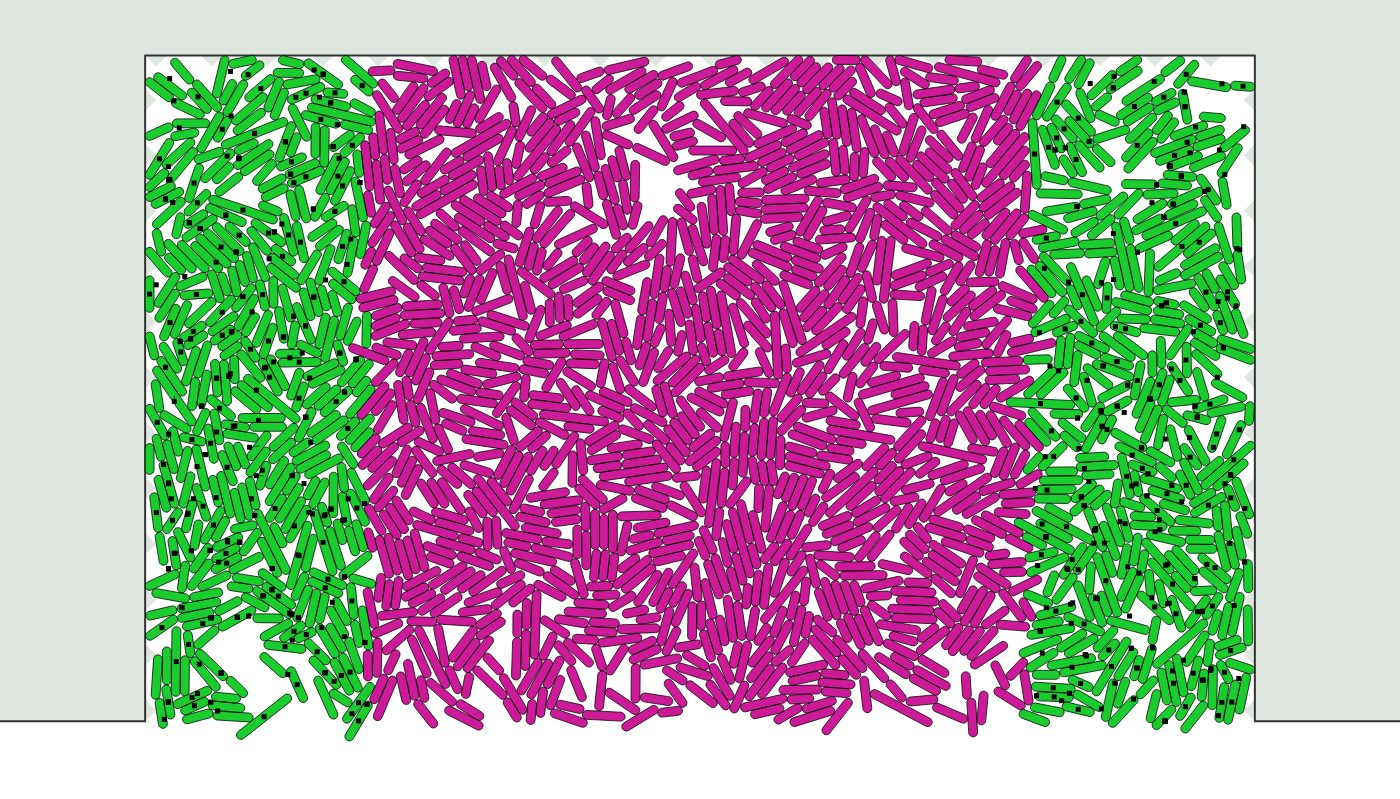
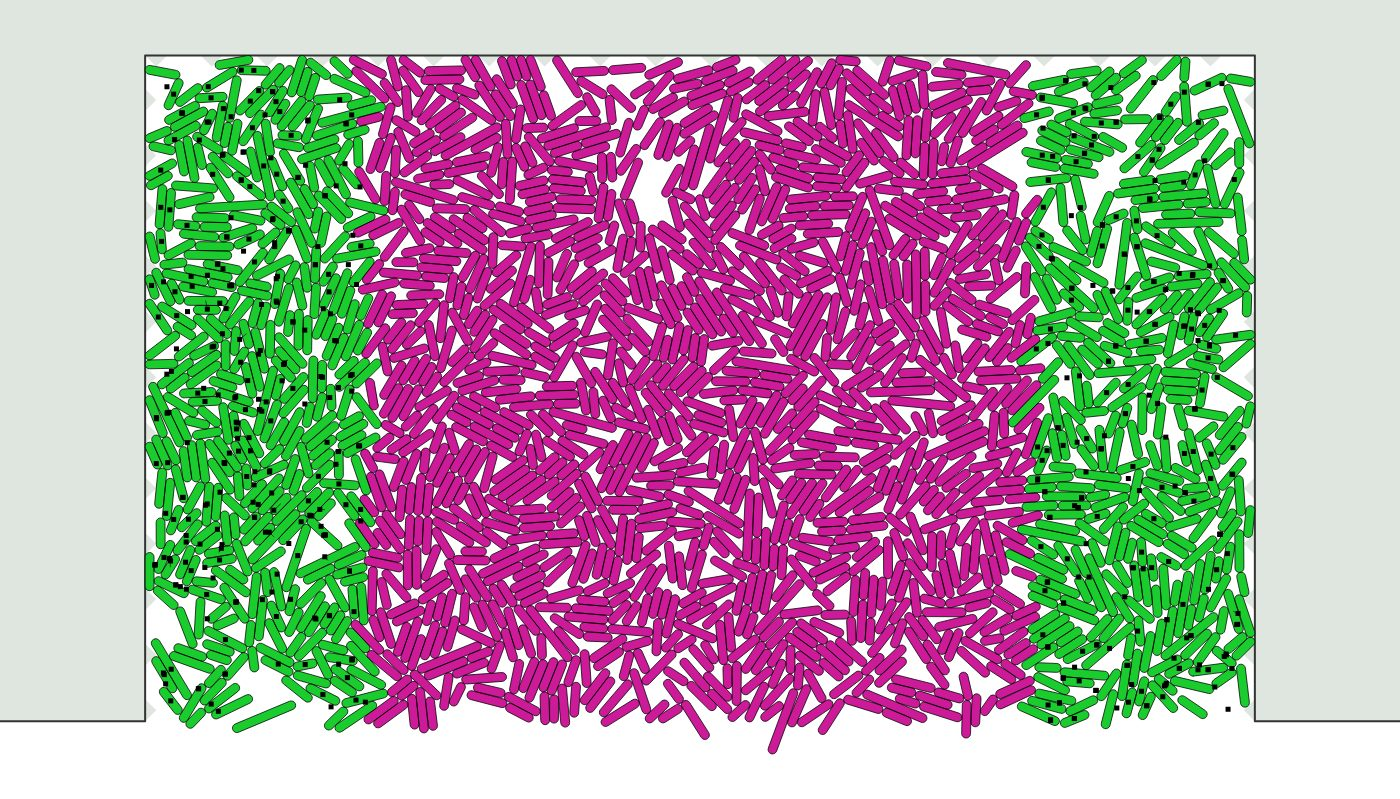
Overlap report: browser session and screenshots with the final defaults

diff --git a/bacteria/reports/overlap-report.md b/bacteria/reports/overlap-report.md
@@ -168,24 +168,26 @@ anchors that never let go the median was 12–15%.
 ## Browser screenshots
 
 A 60 000-step session in headless Chrome with the final defaults (`index.html?seed=7`, 200 steps
-per frame; the page confirmed `anchorMaxStretch=2`), paused every ~6000 steps for screenshots:
-the whole chamber in the phase-contrast and diagnostic views, and diagnostic close-ups (~18 × 11
-units) around the deepest pair at the last snapshot and of the top-left corner. In the diagnostic
-view each cell has its true capsule outline, and anchors are black squares with a line to their
-cell. Pairs deeper than 1% of the width are drawn orange, deeper than the target red. At the
-close-up zoom one pixel is ~0.013 units, so a 5% overlap (0.04) would show as ~3 pixels of
-outline crossing a neighbour.
+per frame; the page confirmed `anchorMaxStretch=2`, `growthGroups=5`, `continuousDrag=1`, 8
+iterations), paused every ~6000 steps for screenshots. Each pause took the whole chamber in the
+phase-contrast and diagnostic views, plus diagnostic close-ups (~18 × 11 units) around the
+deepest pair at the last snapshot and of the top-left corner. In the diagnostic view each cell has
+its true capsule outline, and anchors are black squares with a line to their cell. Pairs deeper
+than 1% of the width are drawn orange, deeper than the target (8%) red. At the close-up zoom one
+pixel is ~0.013 units, so a 5% overlap (0.04) would show as ~3 pixels of outline crossing a
+neighbour.
 
 Readouts at each pause (overlap at the last snapshot; `screenshots/browser-session.log`): max
-0.81–1.74% at every pause from step 6400 to 60 400; mean 0.16–0.21%; deepest wall contact
-0.4–16%. There were no red pairs and no page errors, and the images show no visible overlap. The
-anchor lines are now all short (≤ 2 units). The session also downloaded the states through the
-page's own `download()`: 17.7 MB, 206 snapshots, 10 942 cell ids, valid `LowRes.json`.
+0.41–1.38% at every pause from step 6400 to 60 200; mean 0.06–0.09%; deepest wall contact
+0.3–5%. There were no red pairs and no page errors, and the images show no visible overlap. The
+session also downloaded the states through the page's own `download()`: 17.6 MB, 205 snapshots,
+10 834 cell ids, valid `LowRes.json`. In the page, physics took 10.5 ms per step at ~1710 cells,
+measured with other runs sharing the CPU.
 
 | | |
 |---|---|
 | ![phase, step 12 200](screenshots/step-012200-phase.jpg) | ![diagnostic, step 12 200](screenshots/step-012200-diagnostic.jpg) |
-| ![phase, step 60 400](screenshots/step-060400-phase.jpg) | ![diagnostic, step 60 400](screenshots/step-060400-diagnostic.jpg) |
-| ![close-up around the deepest pair, step 24 400](screenshots/step-024400-zoom-deepest.jpg) | ![close-up of the top-left corner, step 36 400](screenshots/step-036400-zoom-corner.jpg) |
-| ![close-up around the deepest pair, step 60 400](screenshots/step-060400-zoom-deepest.jpg) | ![close-up of the top-left corner, step 60 400](screenshots/step-060400-zoom-corner.jpg) |
+| ![phase, step 60 200](screenshots/step-060200-phase.jpg) | ![diagnostic, step 60 200](screenshots/step-060200-diagnostic.jpg) |
+| ![close-up around the deepest pair (1.4%), step 30 200](screenshots/step-030200-zoom-deepest.jpg) | ![close-up of the top-left corner, step 36 200](screenshots/step-036200-zoom-corner.jpg) |
+| ![close-up around the deepest pair, step 60 200](screenshots/step-060200-zoom-deepest.jpg) | ![close-up of the top-left corner, step 60 200](screenshots/step-060200-zoom-corner.jpg) |
 | ![fluorescence view, step 24 000](screenshots/step-024000-fluorescence.jpg) | ![the page with controls and overlap readout](screenshots/step-024000-fluorescence-page.jpg) |
